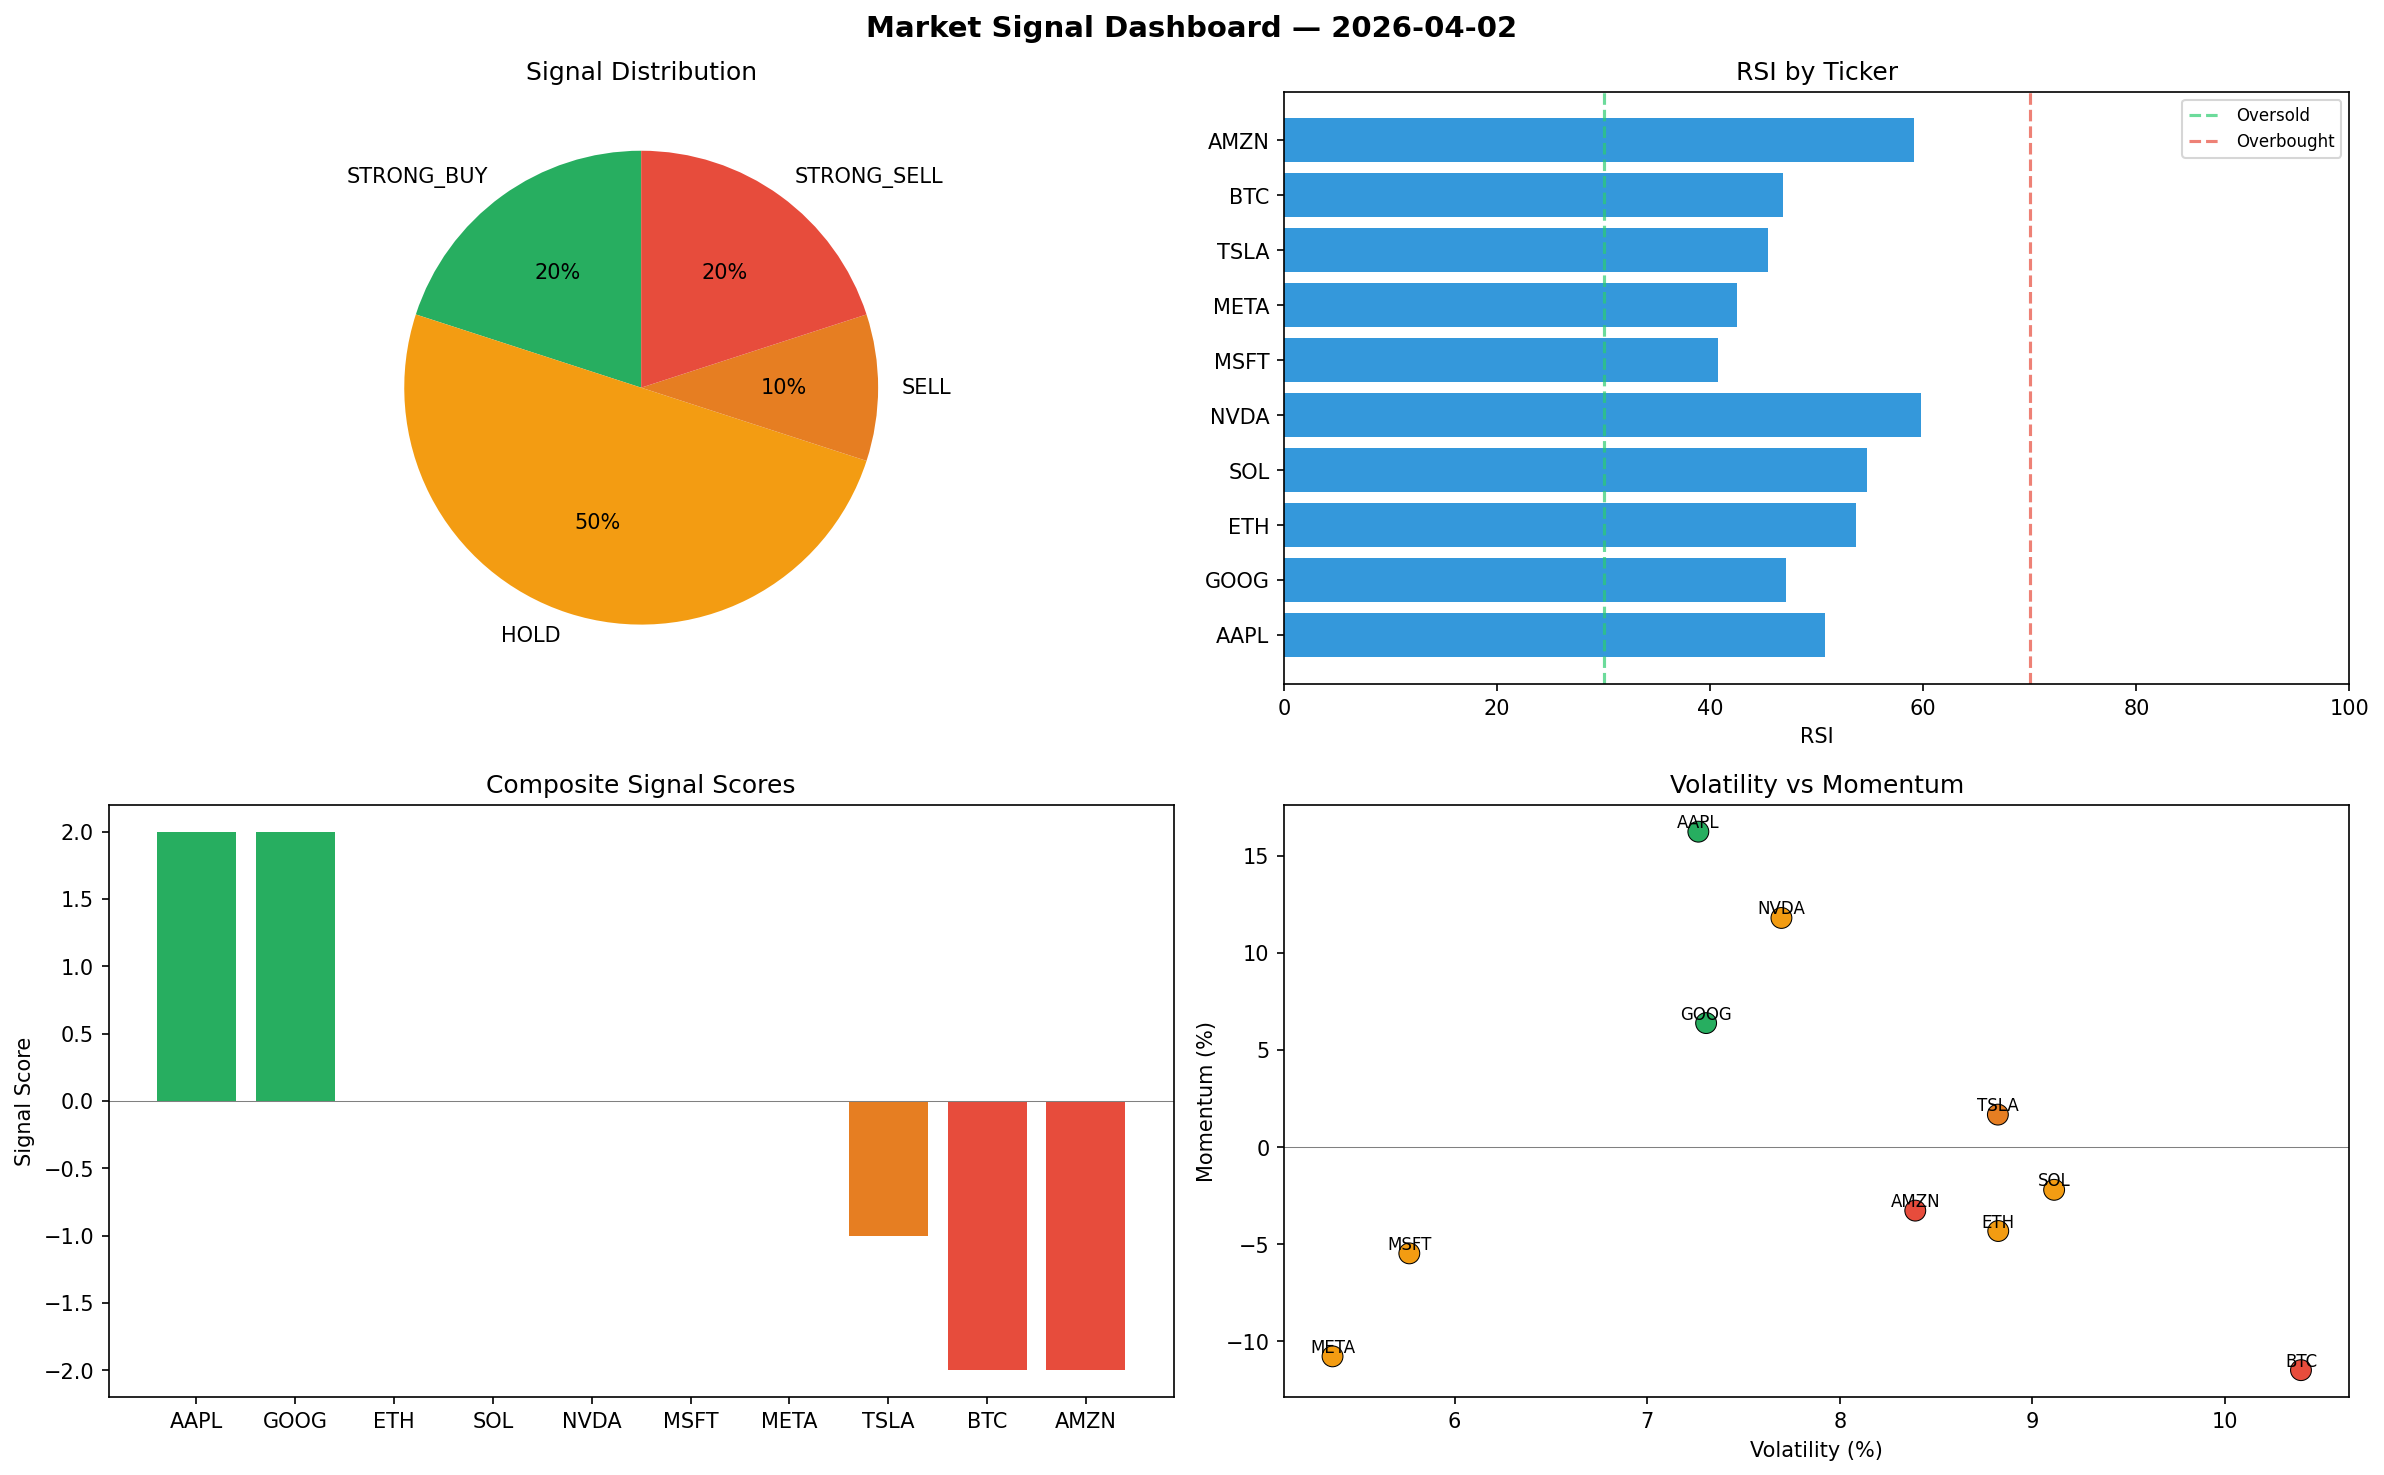
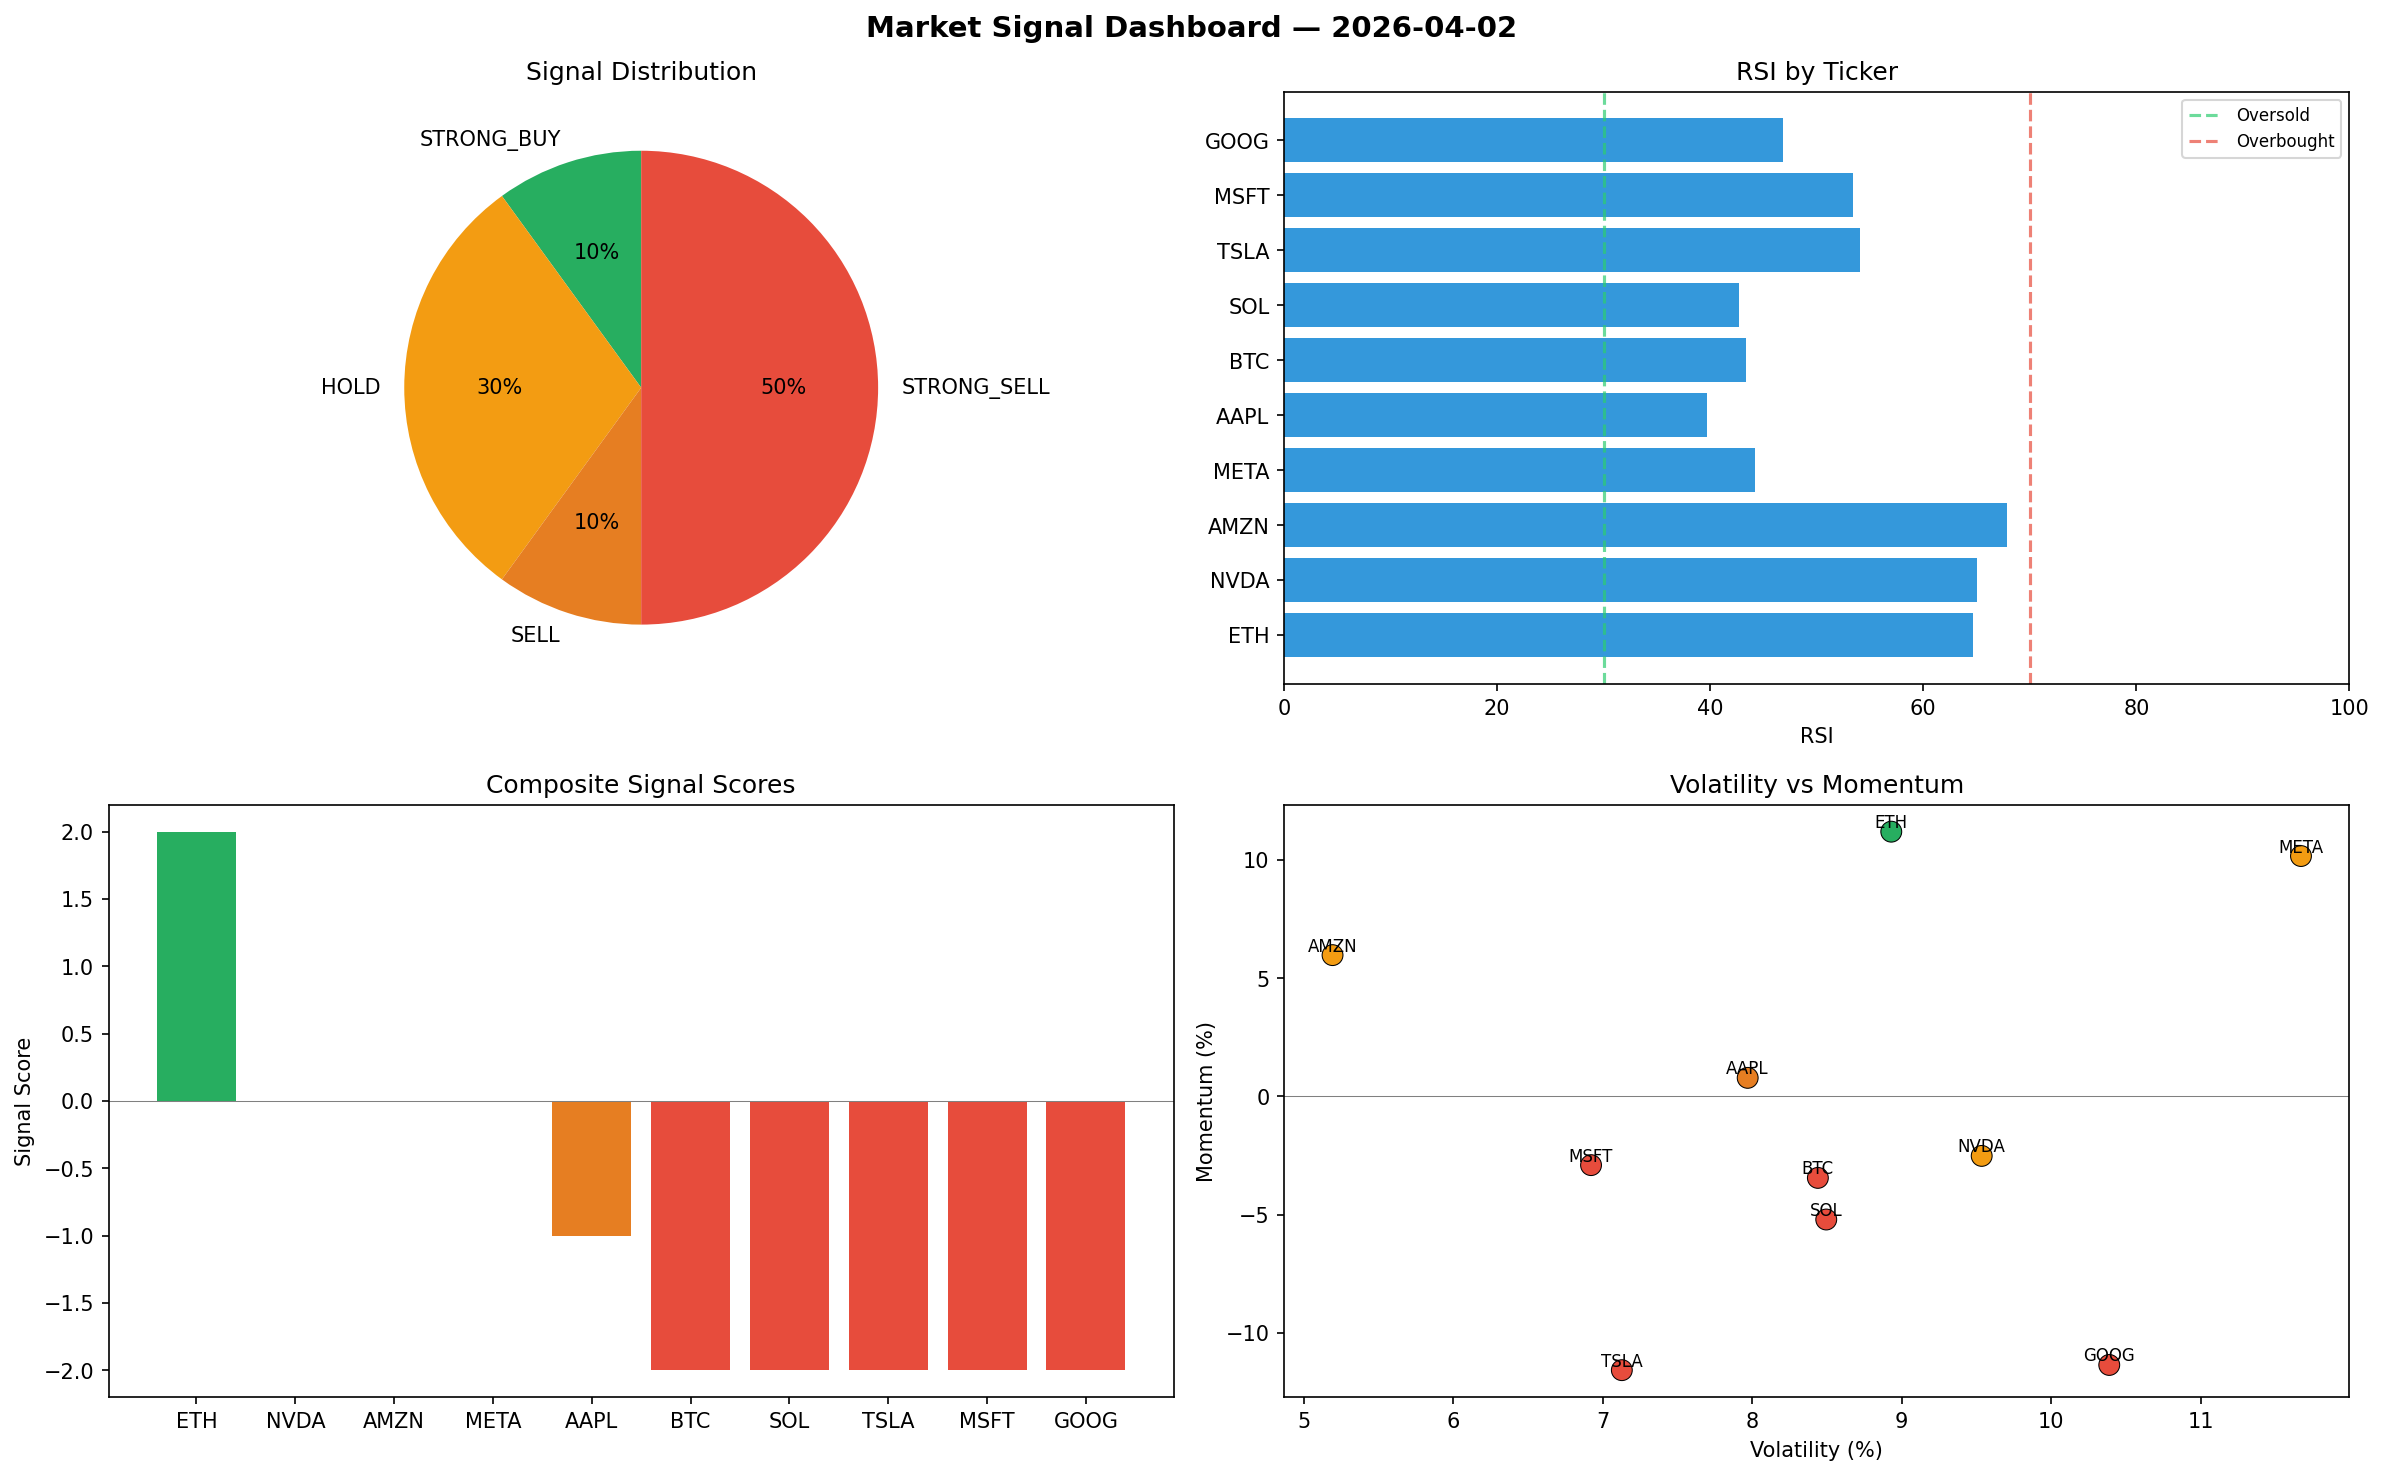
automated-bots: market signals 2026-04-02T15:35

diff --git a/logs/2026-04-02.md b/logs/2026-04-02.md
@@ -1,6 +1,6 @@
 # Market Signal Report — 2026-04-02
 
-**Run ID:** `59659817b6` | **Buy:** 2 | **Sell:** 3 | **Hold:** 5
+**Run ID:** `49f95e7af8` | **Buy:** 1 | **Sell:** 6 | **Hold:** 3
 
 ![Dashboard](2026-04-02_dashboard.png)
 
@@ -8,28 +8,28 @@
 
 | Ticker | Price | Signal | Score | RSI | Momentum | Confidence |
 |--------|-------|--------|-------|-----|----------|------------|
-| AAPL | $1898.15 | **STRONG_BUY** | 2 | 50.78 | 0.1623 | 0.5 |
-| GOOG | $695.19 | **STRONG_BUY** | 2 | 47.12 | 0.0638 | 0.5 |
-| ETH | $3278.11 | **HOLD** | 0 | 53.71 | -0.0432 | 0.0 |
-| SOL | $932.68 | **HOLD** | 0 | 54.75 | -0.022 | 0.0 |
-| NVDA | $2610.81 | **HOLD** | 0 | 59.74 | 0.1179 | 0.0 |
-| MSFT | $3845.82 | **HOLD** | 0 | 40.77 | -0.0547 | 0.0 |
-| META | $378.21 | **HOLD** | 0 | 42.5 | -0.1077 | 0.0 |
-| TSLA | $4223.77 | **SELL** | -1 | 45.46 | 0.0167 | 0.25 |
-| BTC | $3939.42 | **STRONG_SELL** | -2 | 46.8 | -0.1148 | 0.5 |
-| AMZN | $4013.55 | **STRONG_SELL** | -2 | 59.09 | -0.0327 | 0.5 |
+| ETH | $3027.45 | **STRONG_BUY** | 2 | 64.71 | 0.1119 | 0.5 |
+| NVDA | $84.07 | **HOLD** | 0 | 65.03 | -0.0252 | 0.0 |
+| AMZN | $3908.72 | **HOLD** | 0 | 67.88 | 0.0597 | 0.0 |
+| META | $3068.34 | **HOLD** | 0 | 44.21 | 0.1016 | 0.0 |
+| AAPL | $5162.18 | **SELL** | -1 | 39.65 | 0.0078 | 0.25 |
+| BTC | $621.61 | **STRONG_SELL** | -2 | 43.32 | -0.0345 | 0.5 |
+| SOL | $2929.57 | **STRONG_SELL** | -2 | 42.67 | -0.0521 | 0.5 |
+| TSLA | $2397.47 | **STRONG_SELL** | -2 | 54.09 | -0.1158 | 0.5 |
+| MSFT | $1833.78 | **STRONG_SELL** | -2 | 53.37 | -0.0291 | 0.5 |
+| GOOG | $51.24 | **STRONG_SELL** | -2 | 46.86 | -0.1136 | 0.5 |
 
 ## Delta vs Yesterday
 
 | Ticker | Today | Yesterday | Price Change | Signal Changed |
 |--------|-------|-----------|-------------|----------------|
-| AAPL | STRONG_BUY | SELL | 📈 48.31% | ⚠ YES |
-| GOOG | STRONG_BUY | STRONG_BUY | 📉 -84.08% | — |
-| ETH | HOLD | HOLD | 📈 121.3% | — |
-| SOL | HOLD | STRONG_SELL | 📈 9.32% | ⚠ YES |
-| NVDA | HOLD | STRONG_SELL | 📉 -31.37% | ⚠ YES |
-| MSFT | HOLD | HOLD | 📈 156.88% | — |
-| META | HOLD | STRONG_SELL | 📉 -85.52% | ⚠ YES |
-| TSLA | SELL | BUY | 📈 39.75% | ⚠ YES |
-| BTC | STRONG_SELL | SELL | 📈 63.52% | ⚠ YES |
-| AMZN | STRONG_SELL | HOLD | 📈 297.65% | ⚠ YES |
+| ETH | STRONG_BUY | HOLD | 📈 104.38% | ⚠ YES |
+| NVDA | HOLD | STRONG_SELL | 📉 -97.79% | ⚠ YES |
+| AMZN | HOLD | HOLD | 📈 287.26% | — |
+| META | HOLD | STRONG_SELL | 📈 17.47% | ⚠ YES |
+| AAPL | SELL | SELL | 📈 303.33% | — |
+| BTC | STRONG_SELL | SELL | 📉 -74.2% | ⚠ YES |
+| SOL | STRONG_SELL | STRONG_SELL | 📈 243.37% | — |
+| TSLA | STRONG_SELL | BUY | 📉 -20.67% | ⚠ YES |
+| MSFT | STRONG_SELL | HOLD | 📈 22.49% | ⚠ YES |
+| GOOG | STRONG_SELL | STRONG_BUY | 📉 -98.83% | ⚠ YES |
